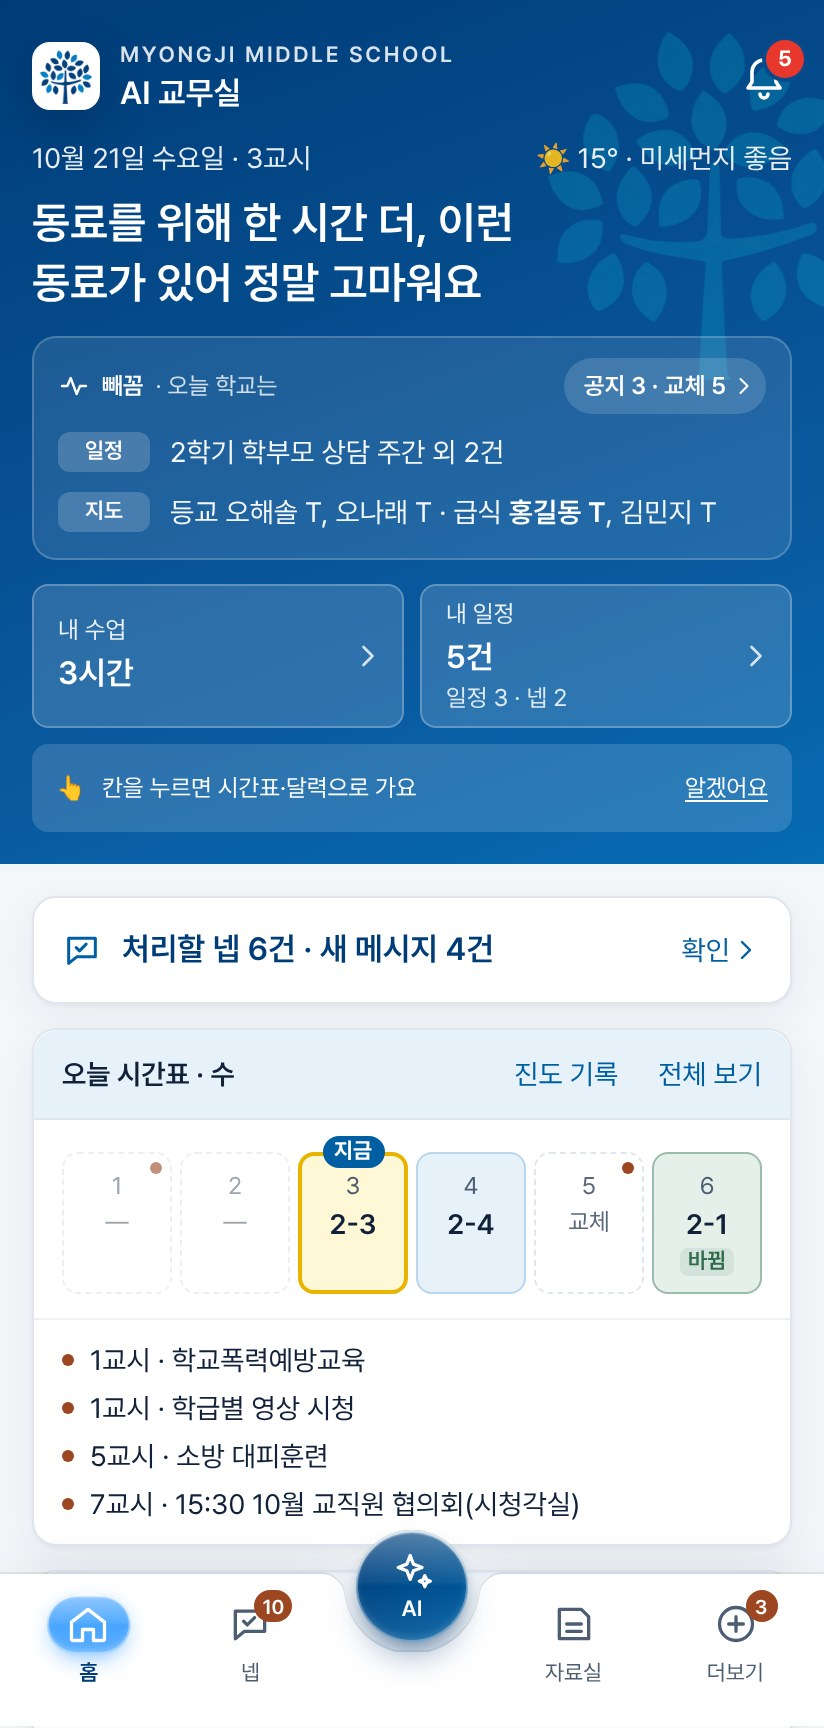
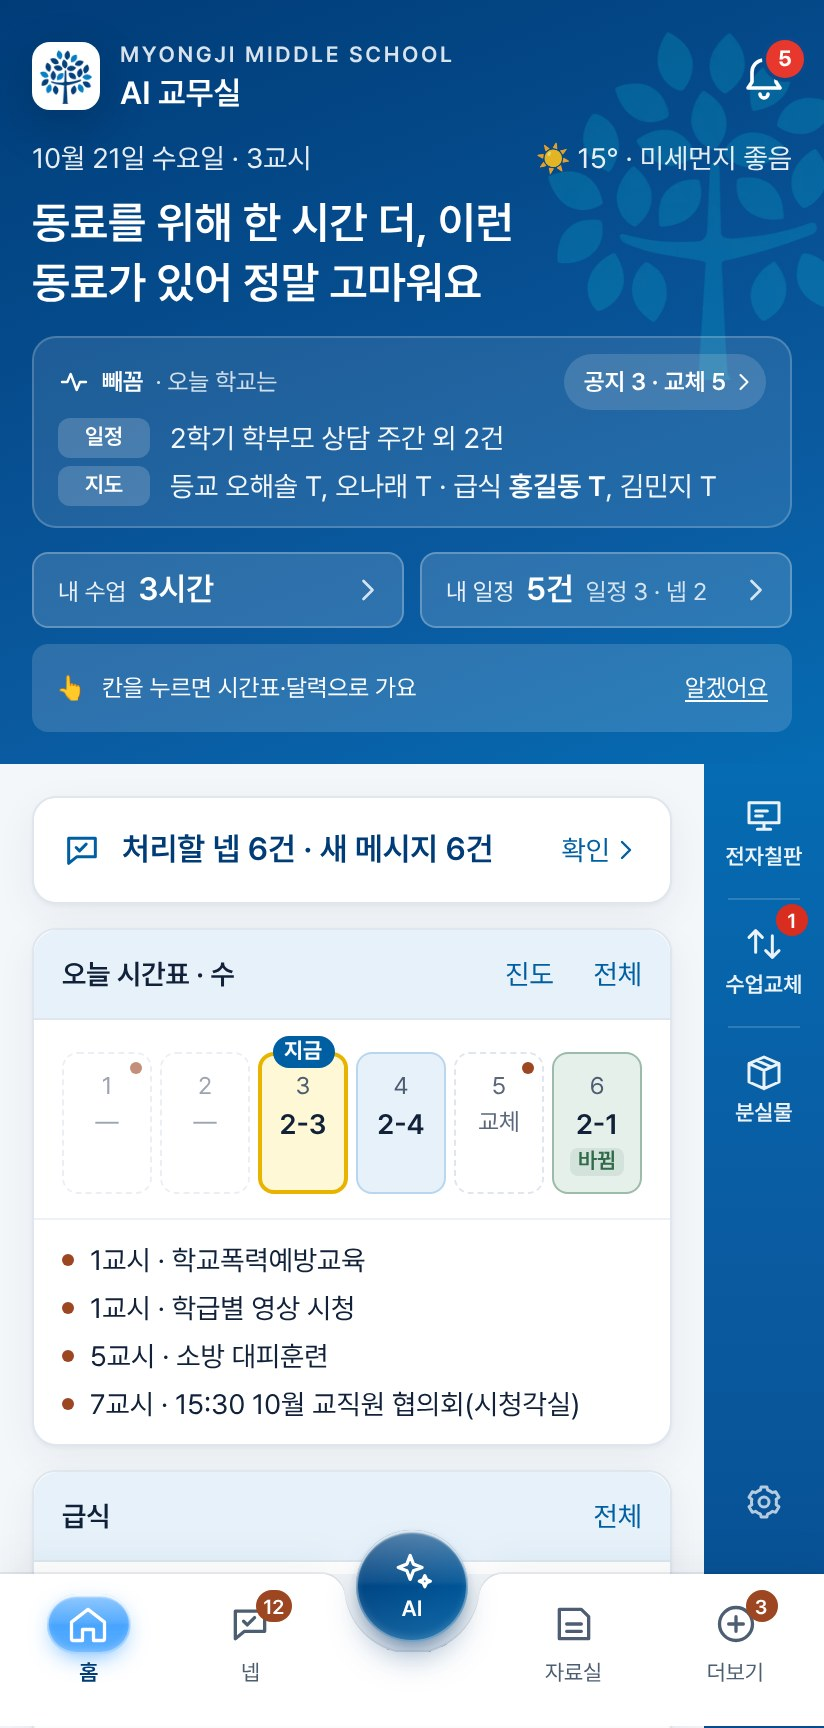
홈 오른쪽 바로가기 기둥(10/30)·카드 머리 두 글자(10/31) 반영 — 홈·구기대회·PC 홈 그림 다시, 미션 7 「진도」
Claude-Session: https://claude.ai/code/session_01PnRkvZMXyWQ3PDuECRmpn5

Changed region(s): [[0.0, 0.1875, 1.0, 0.9375], [0.3034, 0.9062, 0.3337, 0.9375]]

diff --git a/img/rects.js b/img/rects.js
@@ -1,3 +1,3 @@
 /* 화면마다 동그라미 칠 자리(412×864 기준, 찍을 때 잰 값) — R(화면, 키) */
-window.SHOT_RECTS = {"ai-deep": {"answer": [16, 202, 323, 464], "feedback": [20, 672, 41, 36], "question": [73, 68, 323, 124]}, "ai-form": {"answer": [16, 124, 323, 308], "feedback": [20, 438, 41, 36], "links": [267, 372, 37, 19], "question": [147, 68, 249, 46]}, "ai-home": {"chip_first": [16, 202, 380, 46], "chips": [16, 201, 380, 236], "clear": [333, 12, 71, 44], "greet": [16, 100, 380, 30], "head": [16, 16, 74, 36], "hello": [16, 134, 380, 39], "input": [72, 658, 268, 48], "mic": [348, 658, 48, 48], "notice": [16, 718, 380, 33], "plus": [16, 658, 48, 48], "tab_ai": [166, 792, 81, 44]}, "ai-lesson-2": {"body": [31, 48, 350, 482], "button": [31, 560, 111, 40]}, "ai-letter": {"body": [31, 620, 350, 274], "card": [16, 286, 380, 671], "head": [17, 287, 378, 41], "question": [73, 68, 323, 72]}, "ai-library": {"answer": [16, 124, 323, 438], "feedback": [20, 568, 41, 36], "links": [65, 450, 37, 19], "question": [133, 68, 263, 46]}, "ai-lost": {"button": [31, 586, 84, 40], "card": [16, 312, 380, 327], "photo": [31, 366, 96, 96], "question": [73, 68, 323, 124]}, "ai-nep": {"button": [31, 726, 84, 40], "card": [16, 286, 380, 493], "edit": [127, 738, 89, 16], "people": [31, 589, 350, 84], "question": [73, 68, 323, 72]}, "ai-number": {"button": [31, 449, 96, 40], "card": [16, 260, 380, 242], "question": [81, 68, 315, 46]}, "ai-plus": {"attach": [22, 523, 284, 60], "close": [16, 658, 48, 48], "deep": [22, 584, 284, 60], "menu": [16, 517, 296, 133]}, "ai-progress": {"button": [31, 504, 108, 40], "card": [16, 286, 380, 271], "question": [73, 68, 323, 72]}, "ai-repair": {"button": [31, 576, 96, 40], "card": [16, 260, 380, 369], "head": [17, 261, 378, 41], "question": [73, 68, 323, 72]}, "ai-sign": {"button": [31, 705, 175, 40], "card": [16, 286, 380, 472], "people": [31, 544, 350, 151], "question": [73, 68, 323, 72]}, "ai-swap": {"calendar": [31, 364, 75, 14], "card": [16, 312, 380, 703], "question": [73, 68, 323, 72]}, "alerts": {}, "board-alert-confirm": {"cancel": [16, 804, 136, 44], "go": [160, 804, 236, 44], "sheet": [0, 0, 412, 864], "text": [16, 720, 380, 72], "where": [16, 668, 380, 40]}, "board-pick": {"all": [16, 535, 380, 44], "done": [16, 798, 380, 50], "grid": [16, 591, 380, 94], "legend": [16, 697, 380, 32], "off": [170, 641, 71, 44], "tabs": [16, 481, 380, 42]}, "board-send": {"body": [31, 233, 350, 110], "kinds": [31, 134, 350, 50], "mine": [272, 485, 109, 40], "options": [31, 358, 350, 78], "submit": [31, 602, 350, 50], "what": [31, 204, 350, 21], "where": [31, 456, 350, 115]}, "board-voice-rec": {"status": [43, 336, 326, 92], "stop": [287, 388, 82, 40]}, "calendar": {"today": [196, 394, 20, 20]}, "forms": {"trip": [17, 110, 378, 56]}, "found": {"head": [16, 24, 380, 71]}, "home": {"bell": [360, 16, 44, 44], "changed": [326, 576, 55, 71], "hero": [16, 96, 380, 61], "hint": [16, 372, 380, 44], "nep": [16, 448, 380, 54], "now": [149, 576, 55, 71], "peek": [16, 168, 380, 112], "pill": [282, 179, 101, 28], "tabAi": [166, 792, 81, 44], "tabMore": [327, 792, 81, 61], "tabNep": [85, 792, 81, 61], "tileLesson": [16, 292, 186, 72], "tileSched": [210, 292, 186, 72], "tiles": [16, 292, 380, 72], "tt": [321, 515, 68, 44]}, "home-3": {"cal": [349, 430, 40, 44], "meal": [31, 291, 24, 20], "upcoming": [31, 442, 76, 20], "weekly": [280, 430, 64, 44]}, "home-sports": {"card": [16, 16, 380, 472], "link": [16, 16, 380, 472]}, "library": {"chips": [72, 214, 52, 39], "pinned": [16, 282, 380, 95], "search": [52, 169, 331, 23], "write": [310, 720, 86, 48]}, "library-post": {"download": [31, 211, 350, 44]}, "lost-date": {"head": [31, 91, 53, 28], "head2": [31, 207, 51, 28], "scene": [16, 76, 380, 680]}, "lost-found": {"add": [126, 679, 161, 54], "box": [16, 76, 380, 680], "item": [184, 368, 81, 81], "note": [16, 756, 380, 43], "returned": [286, 16, 110, 44], "student": [251, 767, 50, 13]}, "lost-found-2": {"add": [126, 643, 161, 54], "note": [16, 720, 380, 43], "student": [251, 731, 50, 13]}, "lost-found-add": {"photo": [16, 154, 380, 212], "place": [16, 558, 380, 73], "submit": [149, 863, 247, 44]}, "lost-kind": {"head": [31, 91, 58, 28], "scene": [16, 76, 380, 680]}, "nep-board": {"meter": [16, 173, 380, 76], "pending": [16, 261, 380, 21], "remind": [16, 328, 380, 44]}, "nep-inbox": {"chip": [341, 457, 51, 21], "me": [0, 128, 412, 68], "recruit": [0, 264, 412, 68], "row": [0, 196, 412, 68], "tabs": [16, 76, 380, 48], "unread": [372, 230, 20, 20]}, "nep-org-picked": {"bar": [14, 692, 384, 61], "checks": [15, 165, 382, 225], "write": [283, 702, 105, 41]}, "nep-plus": {"ack": [16, 536, 380, 56], "files": [16, 472, 380, 56], "schedule": [16, 728, 380, 56], "sheet": [0, 0, 412, 864], "submit": [16, 664, 380, 56], "task": [16, 600, 380, 56], "urgent": [16, 792, 380, 56]}, "nep-room": {"bubble": [209, 643, 191, 63], "card": [12, 276, 341, 358], "done": [27, 576, 72, 44], "due": [27, 530, 311, 36], "head": [0, 0, 412, 61], "input": [64, 709, 260, 44], "plus": [12, 709, 44, 44], "send": [332, 709, 68, 44]}, "notifications-on": {"nurse": [333, 390, 48, 28], "test": [63, 177, 318, 44]}, "nurse": {"open": [31, 139, 350, 50]}, "pg-month": {"left": [33, 354, 346, 17], "nav": [16, 205, 380, 40], "row": [16, 396, 380, 118], "streak": [299, 270, 80, 21], "summary": [16, 257, 380, 127], "toggle": [16, 139, 380, 54]}, "pg-month-2": {"legend": [16, 614, 380, 40], "off": [77, 57, 24, 32], "row": [16, 267, 380, 118], "star": [53, 64, 16, 17], "today": [77, 91, 24, 32], "todo": [53, 342, 24, 32]}, "pg-month-pick": {"head": [31, 89, 121, 21], "slot": [17, 300, 378, 29]}, "pg-today": {"card": [16, 229, 380, 142], "date": [68, 139, 216, 44], "map": [206, 80, 187, 44], "save": [309, 703, 87, 44], "segment": [16, 77, 380, 50]}, "pg-week": {"hint": [16, 605, 380, 17], "list": [16, 139, 380, 54], "nav": [16, 205, 380, 40], "toggle": [16, 139, 380, 54]}, "record": {"privacy": [16, 42, 253, 16]}, "record-options": {"generate": [31, 383, 350, 50], "length": [31, 61, 350, 21], "model": [31, 301, 350, 48]}, "record-result": {"basis": [31, 532, 350, 90], "result": [31, 330, 350, 166]}, "sign-file": {"doc": [312, 103, 56, 21], "sign": [31, 181, 252, 48]}, "sign-meeting": {"hand": [295, 141, 71, 17], "roster": [17, 234, 378, 464], "sign": [31, 126, 252, 48]}, "signature": {"default": [267, 96, 112, 21], "hand": [16, 77, 380, 302], "stamp": [16, 391, 380, 302]}, "sports": {"bracket": [16, 77, 380, 262], "match": [29, 394, 354, 129], "rounds": [98, 352, 50, 32], "score": [116, 176, 17, 14]}, "sub-calc": {"calendar": [31, 466, 350, 21], "date": [31, 316, 169, 44], "go": [31, 501, 350, 44], "periods": [31, 374, 350, 113], "reason": [212, 316, 169, 44], "tabs": [16, 77, 380, 50], "teacher": [31, 229, 350, 44]}, "sub-dates": {"byHand": [278, 520, 71, 17], "dates": [43, 117, 255, 68], "request": [31, 508, 235, 40], "tools": [31, 460, 350, 36]}, "sub-inbox": {"pending": [16, 316, 380, 21], "proxy": [31, 651, 220, 40], "register": [16, 139, 380, 44], "rooms": [16, 243, 380, 65], "tab": [268, 80, 125, 44]}, "sub-result": {"calendar": [31, 120, 350, 42], "date": [43, 317, 279, 40], "firstStep": [31, 264, 350, 23], "plan1": [31, 207, 350, 49]}, "today": {"board": [31, 90, 52, 21], "days": [178, 271, 42, 23], "mynep": [31, 926, 42, 21]}, "today-2": {"changes": [17, 302, 378, 46], "events": [31, 72, 69, 21]}, "tt-class": {"picker": [16, 135, 380, 44], "tabs": [16, 77, 380, 50]}, "tt-free": {"name": [31, 395, 60, 40], "rooms": [16, 212, 380, 123], "teachers": [16, 347, 380, 343]}, "tt-my": {"away": [191, 516, 61, 87], "band": [191, 226, 61, 87], "changed": [191, 606, 61, 68], "pending": [322, 317, 61, 68], "picker": [16, 135, 380, 44], "tabs": [16, 77, 380, 50], "today": [191, 389, 61, 68]}, "tt-pop": {"band": [191, 226, 61, 87], "pop": [29, 317, 354, 115]}};
+window.SHOT_RECTS = {"ai-deep": {"answer": [16, 202, 323, 464], "feedback": [20, 672, 41, 36], "question": [73, 68, 323, 124]}, "ai-form": {"answer": [16, 124, 323, 308], "feedback": [20, 438, 41, 36], "links": [267, 372, 37, 19], "question": [147, 68, 249, 46]}, "ai-home": {"chip_first": [16, 202, 380, 46], "chips": [16, 201, 380, 236], "clear": [333, 12, 71, 44], "greet": [16, 100, 380, 30], "head": [16, 16, 74, 36], "hello": [16, 134, 380, 39], "input": [72, 658, 268, 48], "mic": [348, 658, 48, 48], "notice": [16, 718, 380, 33], "plus": [16, 658, 48, 48], "tab_ai": [166, 792, 81, 44]}, "ai-lesson-2": {"body": [31, 48, 350, 482], "button": [31, 560, 111, 40]}, "ai-letter": {"body": [31, 620, 350, 274], "card": [16, 286, 380, 671], "head": [17, 287, 378, 41], "question": [73, 68, 323, 72]}, "ai-library": {"answer": [16, 124, 323, 438], "feedback": [20, 568, 41, 36], "links": [65, 450, 37, 19], "question": [133, 68, 263, 46]}, "ai-lost": {"button": [31, 586, 84, 40], "card": [16, 312, 380, 327], "photo": [31, 366, 96, 96], "question": [73, 68, 323, 124]}, "ai-nep": {"button": [31, 726, 84, 40], "card": [16, 286, 380, 493], "edit": [127, 738, 89, 16], "people": [31, 589, 350, 84], "question": [73, 68, 323, 72]}, "ai-number": {"button": [31, 449, 96, 40], "card": [16, 260, 380, 242], "question": [81, 68, 315, 46]}, "ai-plus": {"attach": [22, 523, 284, 60], "close": [16, 658, 48, 48], "deep": [22, 584, 284, 60], "menu": [16, 517, 296, 133]}, "ai-progress": {"button": [31, 504, 108, 40], "card": [16, 286, 380, 271], "question": [73, 68, 323, 72]}, "ai-repair": {"button": [31, 576, 96, 40], "card": [16, 260, 380, 369], "head": [17, 261, 378, 41], "question": [73, 68, 323, 72]}, "ai-sign": {"button": [31, 705, 175, 40], "card": [16, 286, 380, 472], "people": [31, 544, 350, 151], "question": [73, 68, 323, 72]}, "ai-swap": {"calendar": [31, 364, 75, 14], "card": [16, 312, 380, 703], "question": [73, 68, 323, 72]}, "alerts": {}, "board-alert-confirm": {"cancel": [16, 804, 136, 44], "go": [160, 804, 236, 44], "sheet": [0, 0, 412, 864], "text": [16, 720, 380, 72], "where": [16, 668, 380, 40]}, "board-pick": {"all": [16, 535, 380, 44], "done": [16, 798, 380, 50], "grid": [16, 591, 380, 94], "legend": [16, 697, 380, 32], "off": [170, 641, 71, 44], "tabs": [16, 481, 380, 42]}, "board-send": {"body": [31, 233, 350, 110], "kinds": [31, 134, 350, 50], "mine": [272, 485, 109, 40], "options": [31, 358, 350, 78], "submit": [31, 602, 350, 50], "what": [31, 204, 350, 21], "where": [31, 456, 350, 115]}, "board-voice-rec": {"status": [43, 336, 326, 92], "stop": [287, 388, 82, 40]}, "calendar": {"today": [196, 394, 20, 20]}, "forms": {"trip": [17, 110, 378, 56]}, "found": {"head": [16, 24, 380, 71]}, "home": {"bell": [360, 16, 44, 44], "changed": [276, 526, 45, 71], "gear": [356, 729, 52, 44], "hero": [16, 96, 380, 61], "hint": [16, 322, 380, 44], "nep": [16, 398, 320, 54], "now": [129, 526, 45, 71], "peek": [16, 168, 380, 96], "pg": [245, 465, 40, 44], "pill": [282, 177, 101, 28], "rail": [352, 382, 60, 404], "sc": [356, 386, 52, 62], "scAll": [356, 514, 52, 62], "tabAi": [166, 792, 81, 44], "tabMore": [327, 792, 81, 61], "tabNep": [85, 792, 81, 61], "tileLesson": [16, 276, 186, 38], "tileSched": [210, 276, 186, 38], "tiles": [16, 276, 380, 38], "tt": [289, 465, 40, 44]}, "home-3": {"cal": [289, 430, 40, 44], "gear": [356, 729, 52, 44], "meal": [31, 291, 24, 20], "rail": [352, 0, 60, 786], "upcoming": [31, 442, 76, 20], "weekly": [245, 430, 40, 44]}, "home-sheet": {"count": [16, 819, 69, 18], "done": [332, 808, 64, 40], "head": [16, 262, 380, 24], "pick": [16, 314, 380, 484], "sheet": [0, 0, 412, 864]}, "home-sports": {"card": [16, 16, 320, 472], "link": [16, 16, 320, 472]}, "library": {"chips": [72, 214, 52, 39], "pinned": [16, 282, 380, 95], "search": [52, 169, 331, 23], "write": [310, 720, 86, 48]}, "library-post": {"download": [31, 211, 350, 44]}, "lost-date": {"head": [31, 91, 53, 28], "head2": [31, 207, 51, 28], "scene": [16, 76, 380, 680]}, "lost-found": {"add": [126, 679, 161, 54], "box": [16, 76, 380, 680], "item": [184, 368, 81, 81], "note": [16, 756, 380, 43], "returned": [286, 16, 110, 44], "student": [251, 767, 50, 13]}, "lost-found-2": {"add": [126, 643, 161, 54], "note": [16, 720, 380, 43], "student": [251, 731, 50, 13]}, "lost-found-add": {"photo": [16, 154, 380, 212], "place": [16, 558, 380, 73], "submit": [149, 863, 247, 44]}, "lost-kind": {"head": [31, 91, 58, 28], "scene": [16, 76, 380, 680]}, "nep-board": {"meter": [16, 173, 380, 76], "pending": [16, 261, 380, 21], "remind": [16, 328, 380, 44]}, "nep-inbox": {"chip": [341, 457, 51, 21], "me": [0, 128, 412, 68], "recruit": [0, 264, 412, 68], "row": [0, 196, 412, 68], "tabs": [16, 76, 380, 48], "unread": [372, 230, 20, 20]}, "nep-org-picked": {"bar": [14, 692, 384, 61], "checks": [15, 165, 382, 225], "write": [283, 702, 105, 41]}, "nep-plus": {"ack": [16, 536, 380, 56], "files": [16, 472, 380, 56], "schedule": [16, 728, 380, 56], "sheet": [0, 0, 412, 864], "submit": [16, 664, 380, 56], "task": [16, 600, 380, 56], "urgent": [16, 792, 380, 56]}, "nep-room": {"bubble": [209, 643, 191, 63], "card": [12, 276, 341, 358], "done": [27, 576, 72, 44], "due": [27, 530, 311, 36], "head": [0, 0, 412, 61], "input": [64, 709, 260, 44], "plus": [12, 709, 44, 44], "send": [332, 709, 68, 44]}, "notifications-on": {"nurse": [333, 390, 48, 28], "test": [63, 177, 318, 44]}, "nurse": {"open": [31, 139, 350, 50]}, "pg-month": {"left": [33, 354, 346, 17], "nav": [16, 205, 380, 40], "row": [16, 396, 380, 118], "streak": [299, 270, 80, 21], "summary": [16, 257, 380, 127], "toggle": [16, 139, 380, 54]}, "pg-month-2": {"legend": [16, 614, 380, 40], "off": [77, 57, 24, 32], "row": [16, 267, 380, 118], "star": [53, 64, 16, 17], "today": [77, 91, 24, 32], "todo": [53, 342, 24, 32]}, "pg-month-pick": {"head": [31, 89, 121, 21], "slot": [17, 300, 378, 29]}, "pg-today": {"card": [16, 229, 380, 142], "date": [68, 139, 216, 44], "map": [206, 80, 187, 44], "save": [309, 703, 87, 44], "segment": [16, 77, 380, 50]}, "pg-week": {"hint": [16, 605, 380, 17], "list": [16, 139, 380, 54], "nav": [16, 205, 380, 40], "toggle": [16, 139, 380, 54]}, "record": {"privacy": [16, 42, 253, 16]}, "record-options": {"generate": [31, 383, 350, 50], "length": [31, 61, 350, 21], "model": [31, 301, 350, 48]}, "record-result": {"basis": [31, 532, 350, 90], "result": [31, 330, 350, 166]}, "sign-file": {"doc": [312, 103, 56, 21], "sign": [31, 181, 252, 48]}, "sign-meeting": {"hand": [295, 141, 71, 17], "roster": [17, 234, 378, 464], "sign": [31, 126, 252, 48]}, "signature": {"default": [267, 96, 112, 21], "hand": [16, 77, 380, 302], "stamp": [16, 391, 380, 302]}, "sports": {"bracket": [16, 77, 380, 262], "match": [29, 394, 354, 129], "rounds": [98, 352, 50, 32], "score": [116, 176, 17, 14]}, "sub-calc": {"calendar": [31, 466, 350, 21], "date": [31, 316, 169, 44], "go": [31, 501, 350, 44], "periods": [31, 374, 350, 113], "reason": [212, 316, 169, 44], "tabs": [16, 77, 380, 50], "teacher": [31, 229, 350, 44]}, "sub-dates": {"byHand": [278, 520, 71, 17], "dates": [43, 117, 255, 68], "request": [31, 508, 235, 40], "tools": [31, 460, 350, 36]}, "sub-inbox": {"pending": [16, 316, 380, 21], "proxy": [31, 651, 220, 40], "register": [16, 139, 380, 44], "rooms": [16, 243, 380, 65], "tab": [268, 80, 125, 44]}, "sub-result": {"calendar": [31, 120, 350, 42], "date": [43, 317, 279, 40], "firstStep": [31, 264, 350, 23], "plan1": [31, 207, 350, 49]}, "today": {"board": [31, 90, 52, 21], "days": [178, 271, 42, 23], "mynep": [31, 926, 42, 21]}, "today-2": {"changes": [17, 302, 378, 46], "events": [31, 72, 69, 21]}, "tt-class": {"picker": [16, 135, 380, 44], "tabs": [16, 77, 380, 50]}, "tt-free": {"name": [31, 395, 60, 40], "rooms": [16, 212, 380, 123], "teachers": [16, 347, 380, 343]}, "tt-my": {"away": [191, 516, 61, 87], "band": [191, 226, 61, 87], "changed": [191, 606, 61, 68], "pending": [322, 317, 61, 68], "picker": [16, 135, 380, 44], "tabs": [16, 77, 380, 50], "today": [191, 389, 61, 68]}, "tt-pop": {"band": [191, 226, 61, 87], "pop": [29, 317, 354, 115]}};
 window.R = function (s, k) { var a = (window.SHOT_RECTS[s] || {})[k]; if (!a) { if (window.console) console.warn('rect 없음', s, k); return null; } return a; };

diff --git a/intro-scenes.js b/intro-scenes.js
@@ -583,13 +583,13 @@
     steps: [
       { t: '큰 글씨는 <b>선생님마다 다른 한마디</b> — 교체로 수업을 맡아 준 날엔 “고마워요”', s: 0, r: R("home", "hero"), newf: true },
       { t: '<span class="q">「빼꼼 · 오늘 학교는」</span> 판: 오늘 일정·지도 당번과 공지·교체 수 — 누르면 빼꼼', s: 0, r: R("home", "peek"), newf: true, z: 1.6 },
-      { t: '두 칸 <span class="q">내 수업 · 내 일정</span>(누르면 시간표·달력)과 오른쪽 위 <b>알림 종</b>', s: 0, r: R("home", "tiles"), newf: true, z: 1.9 },
-      { t: '<b>처리할 넵</b>이 띠 바로 아래에', s: 0, r: R("home", "nep"), z: 1.8 },
+      { t: '두 칸 <span class="q">내 수업 · 내 일정</span>(누르면 시간표·달력), 그 아래 <b>처리할 넵</b>', s: 0, r: R("home", "tiles"), newf: true, z: 1.9 },
+      { t: '오른쪽 남색 기둥 = <b>내 바로가기</b>, <span class="k">톱니</span>로 최대 6개', s: 2, r: R("home-sheet", "pick"), newf: true },
       { t: '오늘 시간표: 지금 교시 <span class="q">「지금」</span>, 교체로 들어온 수업 <span class="q">「바뀜」</span>', s: 0, r: R("home", "now"), z: 1.9 },
       { t: '급식과 <span class="q">「다가오는 일정」</span>(오늘부터 7일)', s: 1, r: R("home-3", "upcoming") }
     ],
-    screens: ["home", "home-3"],
-    notes: "앱을 열면 보이는 홈입니다. 위쪽 큰 글씨는 <b>선생님마다 다른 한마디</b>입니다. 오늘 동료 수업을 교체로 맡아 준 선생님에게는 “고마워요”, 급식지도 당번에게는 “점심 챙기세요”처럼, 그 선생님의 오늘에 맞춰 AI와 규칙이 함께 고릅니다(퇴근했다고 단정하거나 다그치는 말은 쓰지 않습니다). 그 아래 <b>빼꼼 판</b>에 오늘 일정과 등교·급식지도 당번, 공지·바뀐 수업 수가 모이고(누르면 빼꼼), 내 수업·내 일정 두 칸, 처리할 넵, 오늘 시간표, 급식, 다가오는 일정 순서입니다. <b>저녁 7시부터는</b> 홈 전체가 내일 것으로 바뀌어 퇴근길에 내일을 봅니다."
+    screens: ["home", "home-3", "home-sheet"],
+    notes: "앱을 열면 보이는 홈입니다. 위쪽 큰 글씨는 <b>선생님마다 다른 한마디</b>입니다. 오늘 동료 수업을 교체로 맡아 준 선생님에게는 “고마워요”, 급식지도 당번에게는 “점심 챙기세요”처럼, 그 선생님의 오늘에 맞춰 AI와 규칙이 함께 고릅니다(퇴근했다고 단정하거나 다그치는 말은 쓰지 않습니다). 그 아래 <b>빼꼼 판</b>에 오늘 일정과 등교·급식지도 당번, 공지·바뀐 수업 수가 모이고(누르면 빼꼼), 내 수업·내 일정 두 칸, 처리할 넵, 오늘 시간표, 급식, 다가오는 일정 순서입니다. 카드 오른쪽의 <b>남색 기둥</b>은 내 바로가기입니다 — 처음엔 전자칠판 알림·수업교체·분실물 함이 있고, 맨 아래 톱니로 자주 쓰는 도구를 최대 6개까지 골라 둡니다(그 기기에만 저장, 화면을 내려도 제자리). <b>저녁 7시부터는</b> 홈 전체가 내일 것으로 바뀌어 퇴근길에 내일을 봅니다."
   });
 
   show({

diff --git a/missions.js b/missions.js
@@ -57,7 +57,7 @@ window.MISSIONS = [
   {
     n: 7, part: "수업", title: "진도 한 줄 적기", min: 1, ai: 0, scenes: ["s-progress"],
     steps: [
-      '<span class="k">홈</span> <span class="q">오늘 시간표</span>의 <span class="k">진도 기록</span>',
+      '<span class="k">홈</span> <span class="q">오늘 시간표</span> 머리 오른쪽 <span class="k">진도</span>',
       '오늘 수업 칸에 한 줄(예: 3단원 2차시 토의) → 아래 <span class="k">모두 저장</span>'
     ],
     see: "오늘 실제로 하는 수업마다 칸이 하나 — 교체로 바뀐 수업도 반영됩니다. 아래 「학급별 보기」에서 반마다 기록."
